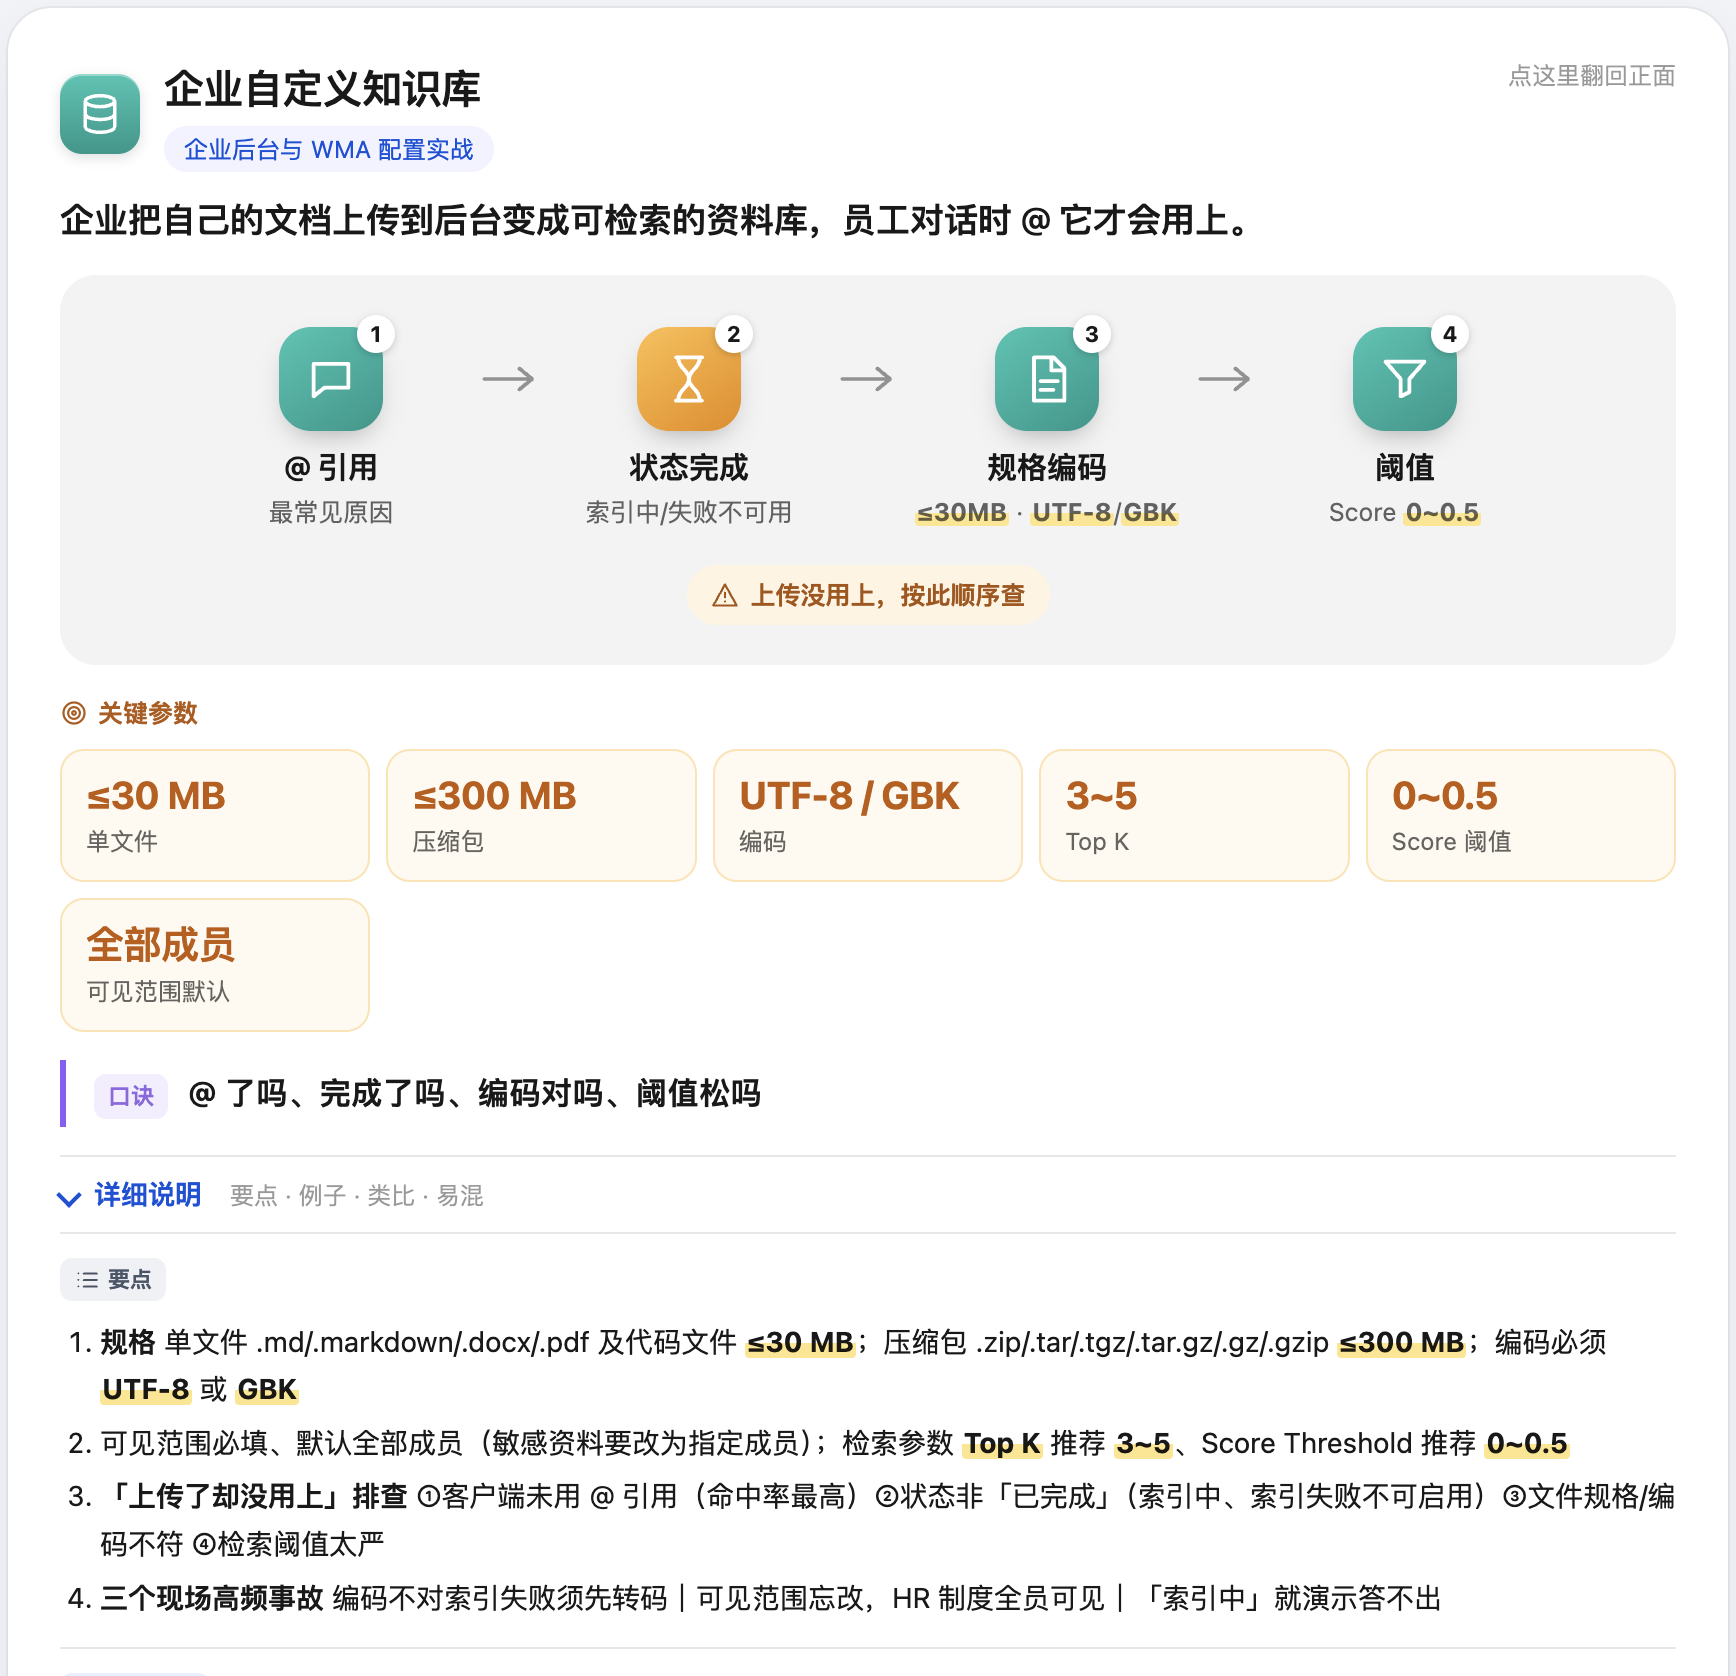
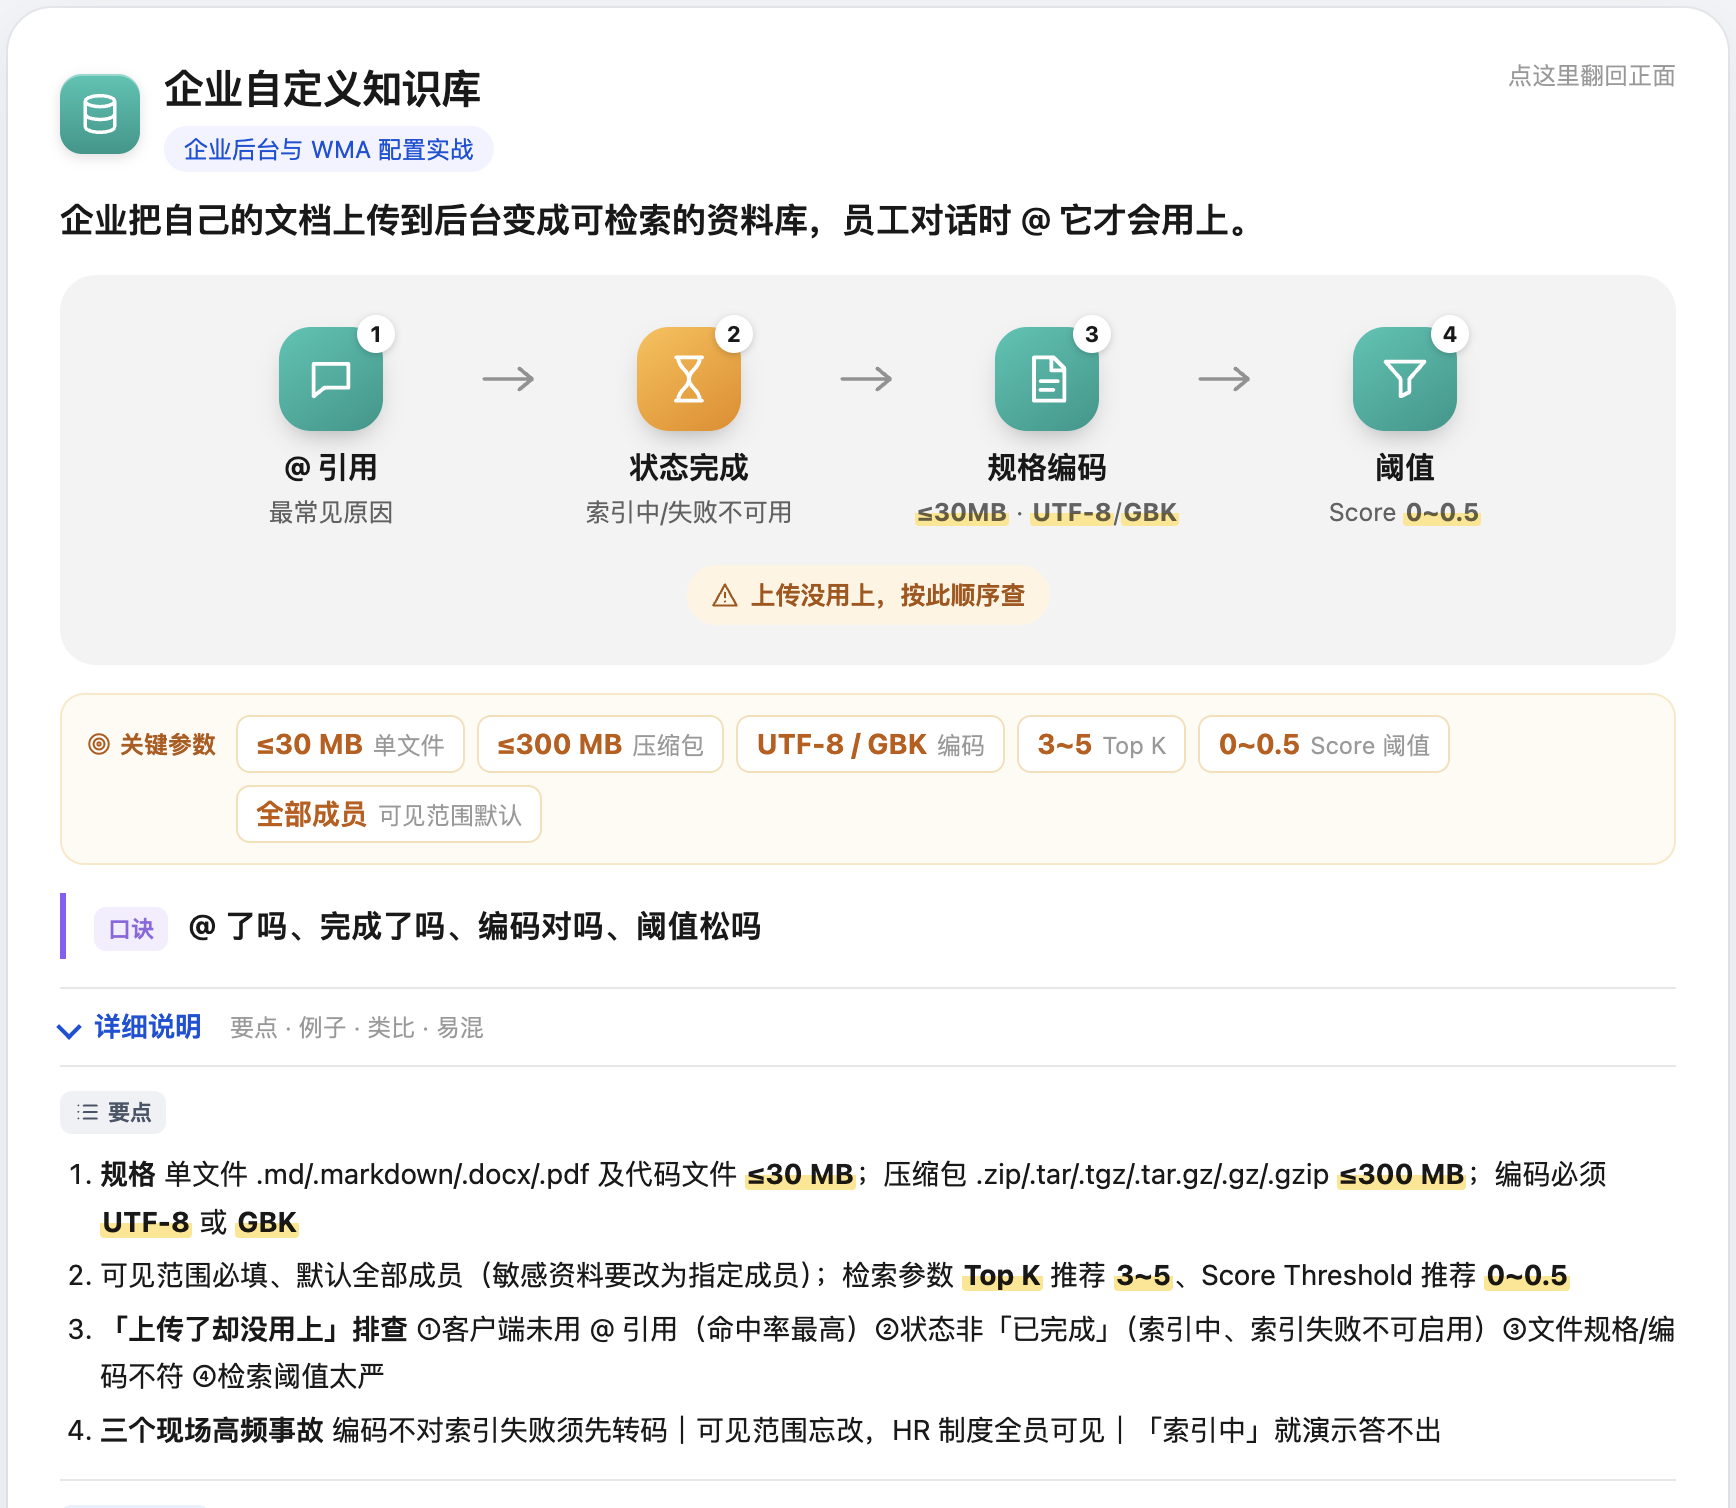
关键参数改为紧凑行内标签，更轻更美观

diff --git a/css/style.css b/css/style.css
@@ -686,3 +686,20 @@ mark.kv{background:linear-gradient(transparent 55%,#ffe58a 55%);color:inherit;fo
 @media (prefers-color-scheme: dark){:root:not([data-theme="light"]) mark.kv{background:linear-gradient(transparent 55%,#6b5310 55%)}:root:not([data-theme="light"]) .ck{background:#2e2414;border-color:#5a4220}:root:not([data-theme="light"]) .ck b{color:#ffbf70}}
 @media (max-width:820px){.ck-list{grid-template-columns:repeat(2,1fr)}.ck b{font-size:17px}}
 @media (max-width:820px){.ck{padding:8px 10px;border-radius:10px}.ck b{font-size:15.5px}.ck span{font-size:11.5px}}
+/* 关键参数 v2：紧凑行内标签 */
+.cb-keys{display:flex;align-items:flex-start;gap:10px;margin:0 0 14px;padding:10px 12px;border-radius:12px;background:#fffbf3;border:1px solid #fbe7c6}
+.ck-h{flex:none;margin:3px 0 0;font-size:12px;color:#b4580b;gap:4px}
+.ck-h .ic{width:13px;height:13px}
+.ck-list{display:flex;flex-wrap:wrap;gap:6px 6px;grid-template-columns:none}
+.ck{flex-direction:row;align-items:baseline;gap:5px;background:#fff;border:1px solid #f6dfb8;border-radius:7px;padding:3px 9px;min-width:0}
+.ck b{font-size:14px;line-height:1.5;color:#c25a00;letter-spacing:0;word-break:normal;white-space:nowrap}
+.ck span{font-size:12px;color:var(--muted);white-space:nowrap}
+@media (prefers-color-scheme: dark){:root:not([data-theme="light"]) .cb-keys{background:#2a2114;border-color:#4a3820}:root:not([data-theme="light"]) .ck{background:#1f1a12;border-color:#4a3820}}
+@media (max-width:820px){
+  .cb-keys{flex-direction:column;gap:7px;padding:10px}
+  .ck-h{margin:0}
+  .ck-list{display:flex;grid-template-columns:none}
+  .ck{padding:3px 8px;border-radius:7px}
+  .ck b{font-size:13.5px}.ck span{font-size:11.5px}
+}
+.ck-h{margin-top:5px}@media (max-width:820px){.ck-h{margin-top:0}}

diff --git a/README.md b/README.md
@@ -120,7 +120,7 @@
 | **对比（最小必要权限：错误 → 正确）** | **宫格（三个端）** |
 | ![对比图解](docs/images/card-compare.png) | ![宫格图解](docs/images/card-grid.png) |
 
-**关键参数**——考试常考的硬参数（大小上限、编码、阈值、周期、比例等）单独提炼成大字参数卡，放在图解下方；要点、例子和图解里的数字也会自动高亮：
+**关键参数**——考试常考的硬参数（大小上限、编码、阈值、周期、比例等）单独提炼成一行紧凑的参数标签，放在图解下方；要点、例子和图解里的数字也会自动高亮：
 
 ![关键参数](docs/images/card-keys.png)
 
